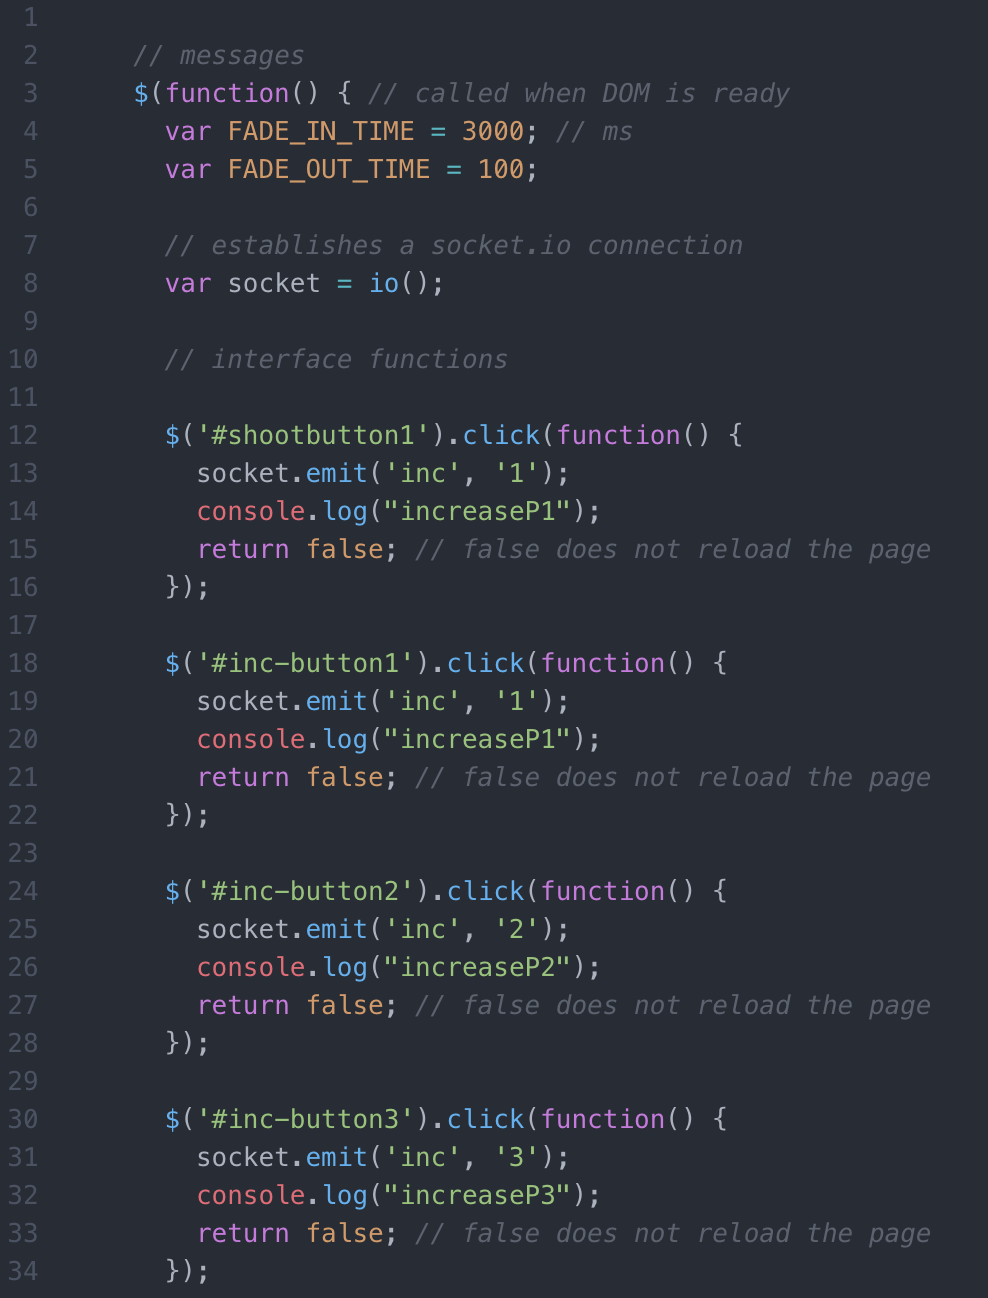
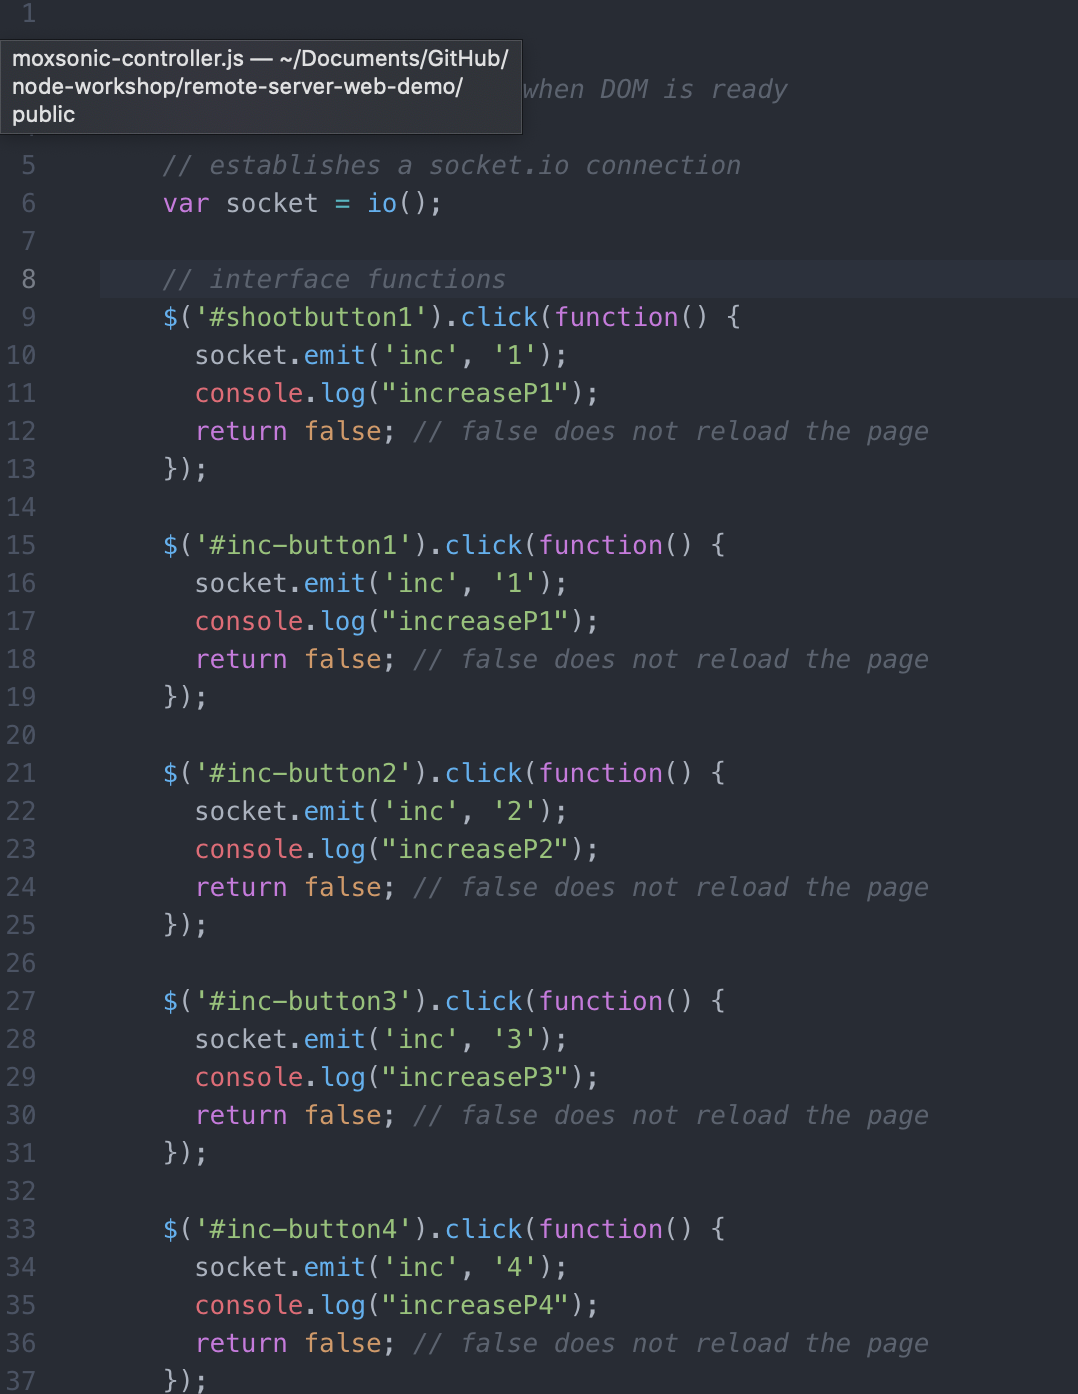
#6 changes

diff --git a/remote-server-web-demo/public/moxsonic-controller.js b/remote-server-web-demo/public/moxsonic-controller.js
@@ -1,14 +1,11 @@
 
   // messages
   $(function() { // called when DOM is ready
-    var FADE_IN_TIME = 3000; // ms
-    var FADE_OUT_TIME = 100;
 
     // establishes a socket.io connection
     var socket = io();
 
     // interface functions
-
     $('#shootbutton1').click(function() {
       socket.emit('inc', '1');
       console.log("increaseP1");

diff --git a/6web-interface-example.md b/6web-interface-example.md
@@ -43,13 +43,17 @@ This example uses jquery.
 
 An example for js:
 
-`const incButton1 = document.getElementById('inc-button1');`
+`const inc-Button1 = document.getElementById('inc-button1');`
 `incButton1.addEventListener('click', function(e) {`
+	`socket.emit('inc', '1');`
   `console.log('increment button 1 was clicked');`
 `});`
 
 For examples with js: https://gist.github.com/aerrity/fd393e5511106420fba0c9602cc05d35)
 
+Notice that we used the id name from the html page `inc-button1`. In order to reference that button's interaction event, we have a local variable, which we call `inc-Button1`.
+
+In both examples, notice the line `socket.emit('inc', '1');`. This commands a message 'inc 1 ' through socket.io (to the server).
 
 
 ## Webpage hosted on server
